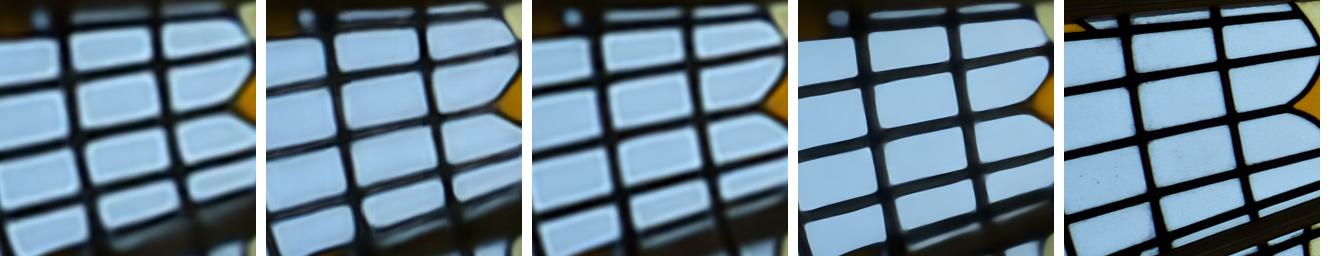
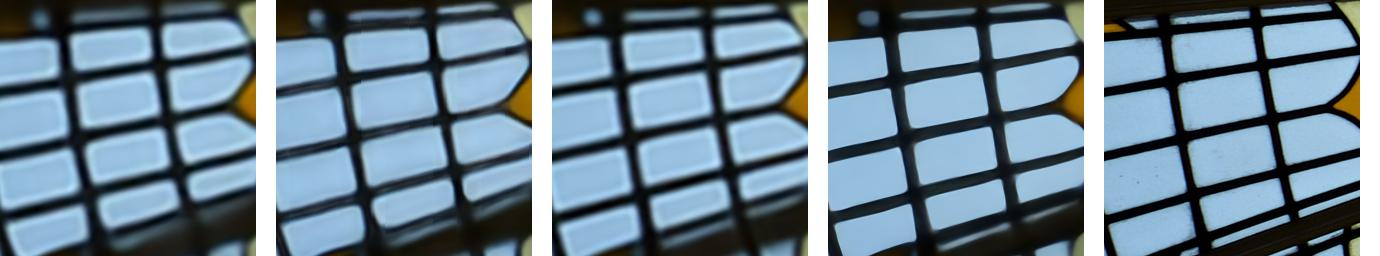
add figure

diff --git a/liif/scripts/merge_images_into_one.py b/liif/scripts/merge_images_into_one.py
@@ -18,7 +18,7 @@ def merge_images(image_folder):
 
     max_images_per_row = 5
     num_rows = (num_images + max_images_per_row - 1) // max_images_per_row
-    spacing = 10  # Adjust this value to control the spacing between images
+    spacing = 20  # Adjust this value to control the spacing between images
 
     max_width = max_images_per_row * (max(img.width for _, img in images) + spacing)
     max_height = num_rows * (max(img.height for _, img in images))
